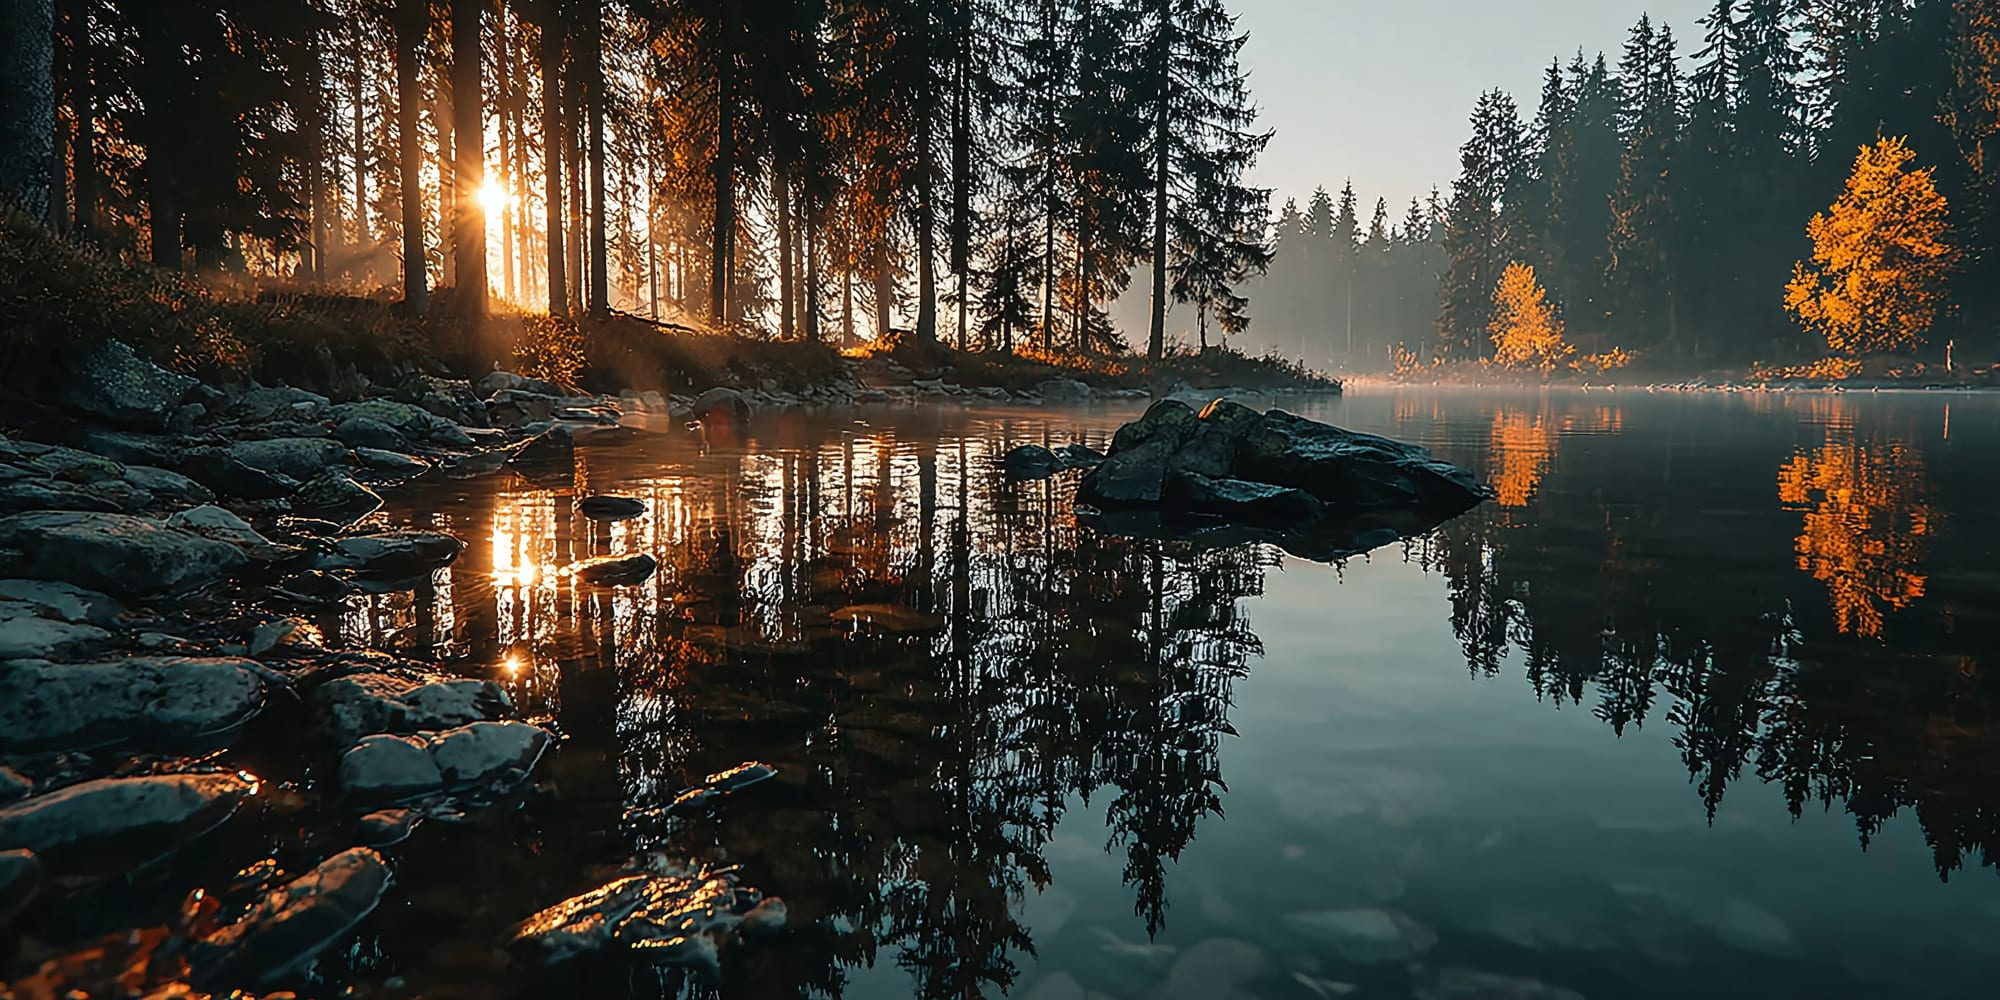
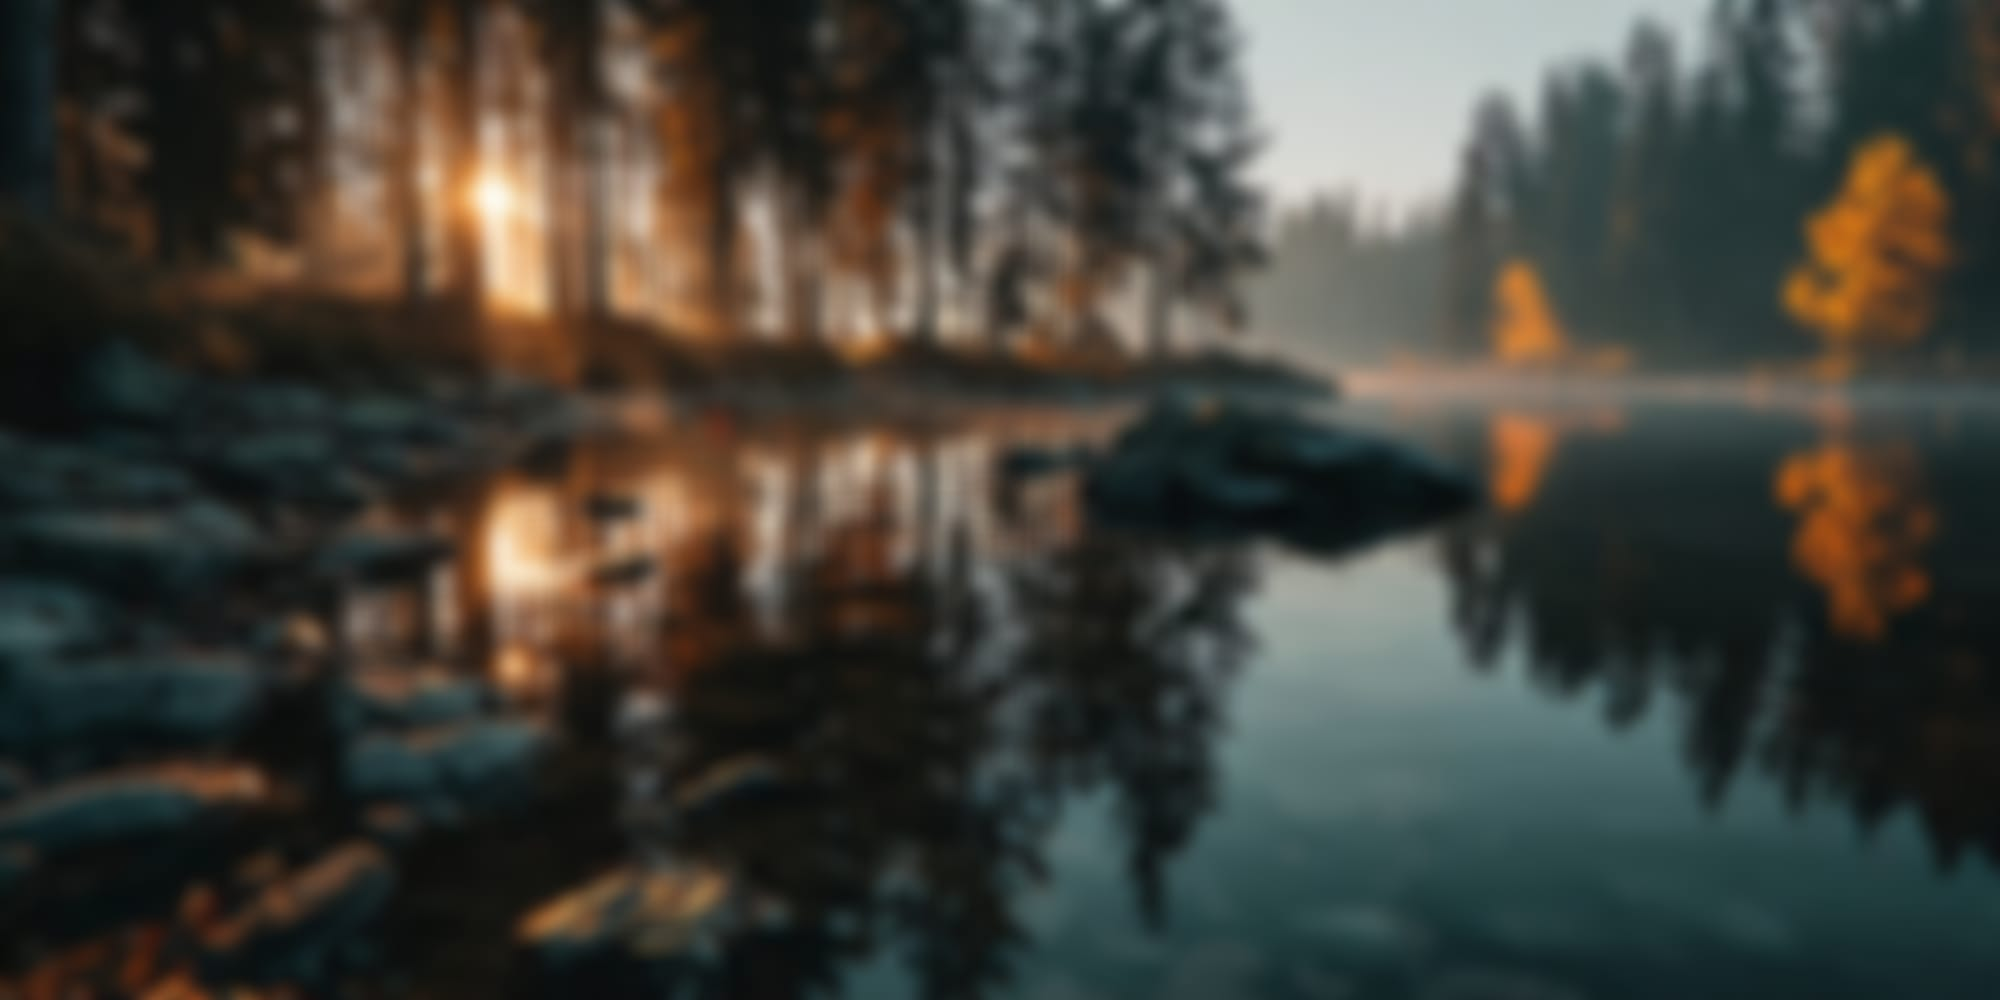
Polish: more translucent scrolled header + blurred sustainability bg
- Header (scrolled) goes from .92 to .70 opacity with stronger blur (frosted glass).
- Sustainability background photo gets a gaussian blur baked in (softer, text pops).

Claude-Session: https://claude.ai/code/session_01SWZ2y5zSjqz287vqhbpxjk

diff --git a/css/styles.css b/css/styles.css
@@ -453,9 +453,9 @@ body[data-version="v2"] .site-header .logo strong { color: #fff; }
 body[data-version="v2"] .site-header .logo__tag { color: rgba(255,255,255,.72); }
 body[data-version="v2"] .site-header:not(.scrolled) .logo.has-logo-img .logo__img { filter: invert(1) brightness(2.4); }
 body[data-version="v2"] .site-header.scrolled {
-  background: rgba(255,255,255,.92);
-  -webkit-backdrop-filter: blur(10px); backdrop-filter: blur(10px);
-  border-bottom-color: var(--line);
+  background: rgba(255,255,255,.70);
+  -webkit-backdrop-filter: blur(16px) saturate(140%); backdrop-filter: blur(16px) saturate(140%);
+  border-bottom-color: rgba(212,212,216,.6);
 }
 body[data-version="v2"] .site-header.scrolled .nav-item,
 body[data-version="v2"] .site-header.scrolled .icon-btn { color: var(--ink-2); }
